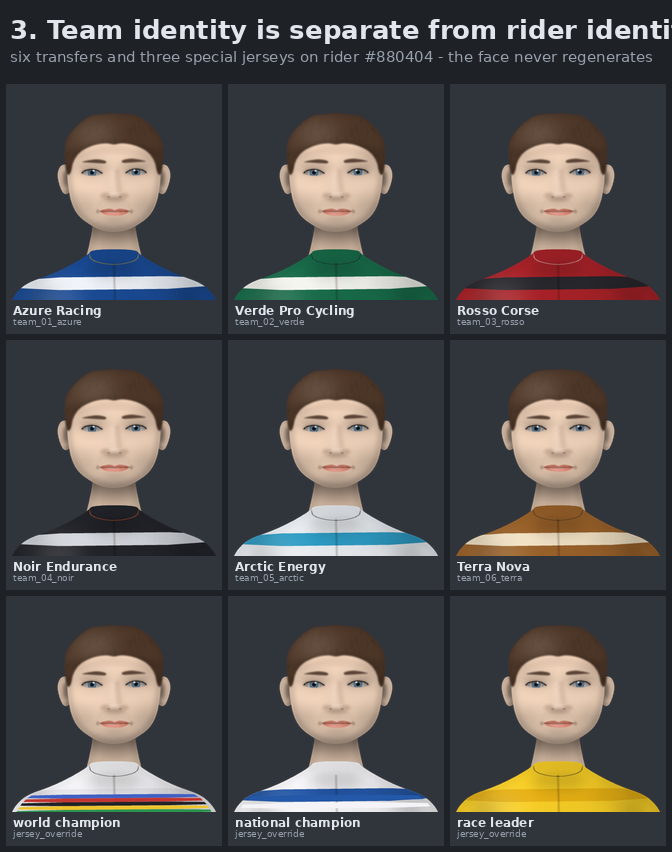
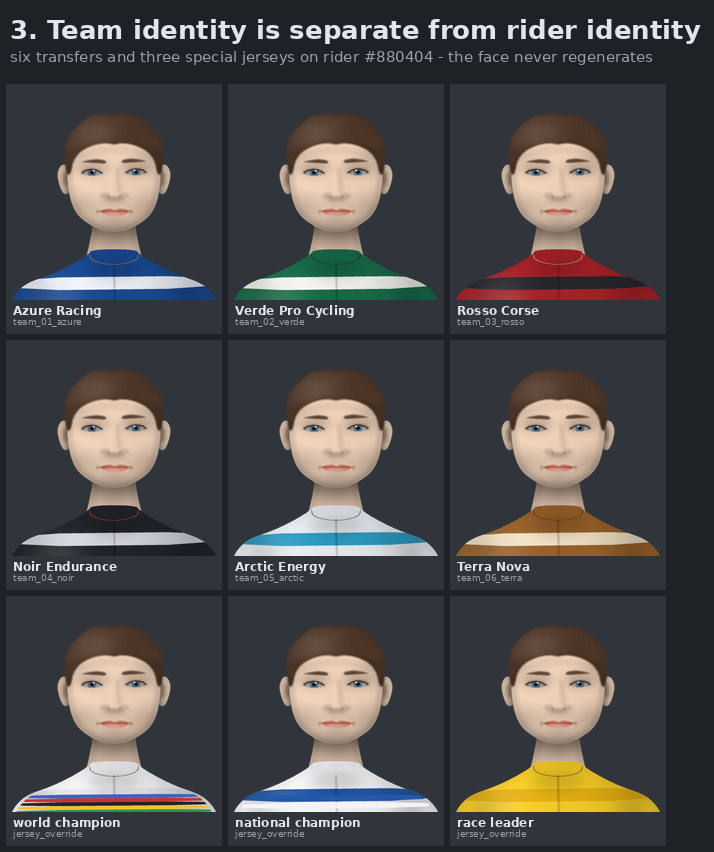
Keep demo sheet captions from clipping on narrow grids

diff --git a/experiments/avatar_prototype/scripts/render_demo.py b/experiments/avatar_prototype/scripts/render_demo.py
@@ -76,7 +76,11 @@ def grid(tiles: list[Image.Image], cols: int, pad: int = 6, header: str = "", su
     tw, th = tiles[0].size
     rows = (len(tiles) + cols - 1) // cols
     head_h = 0 if not header else (54 if not sub else 78)
-    sheet = Image.new("RGBA", (cols * (tw + pad) + pad, head_h + rows * (th + pad) + pad), (*BG, 255))
+    width = cols * (tw + pad) + pad
+    if header:  # never clip the caption on a narrow sheet
+        need = max(font(26, bold=True).getlength(header), font(15).getlength(sub) if sub else 0)
+        width = max(width, int(need) + 2 * pad + 12)
+    sheet = Image.new("RGBA", (width, head_h + rows * (th + pad) + pad), (*BG, 255))
     d = ImageDraw.Draw(sheet)
     if header:
         d.text((pad + 4, 14), header, fill=TEXT, font=font(26, bold=True))
